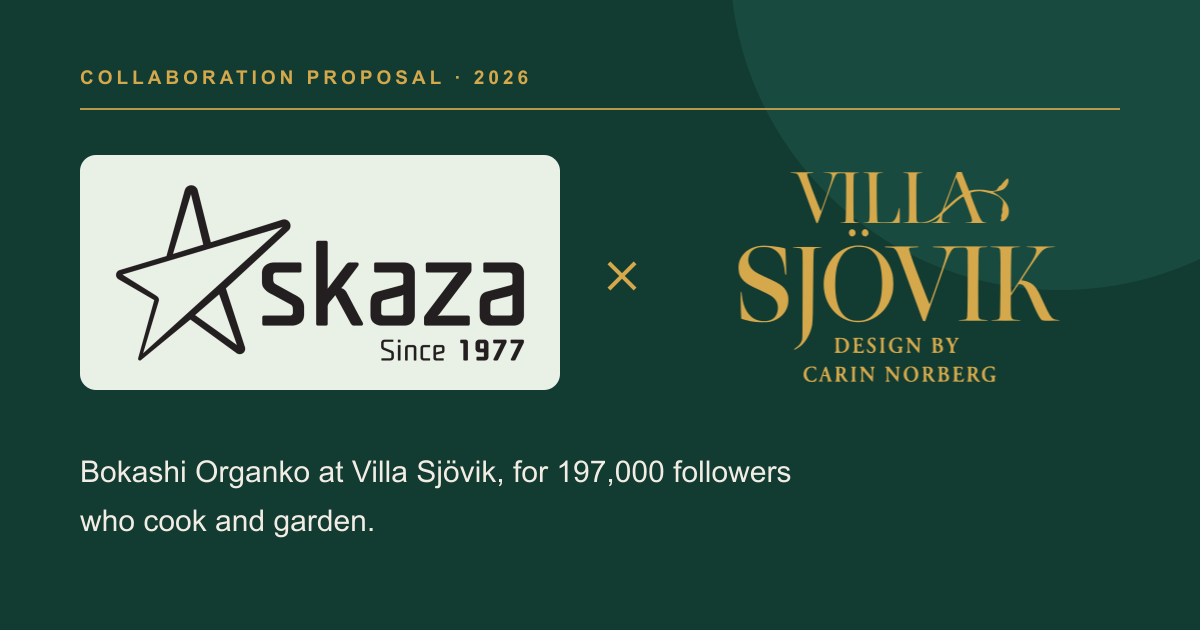
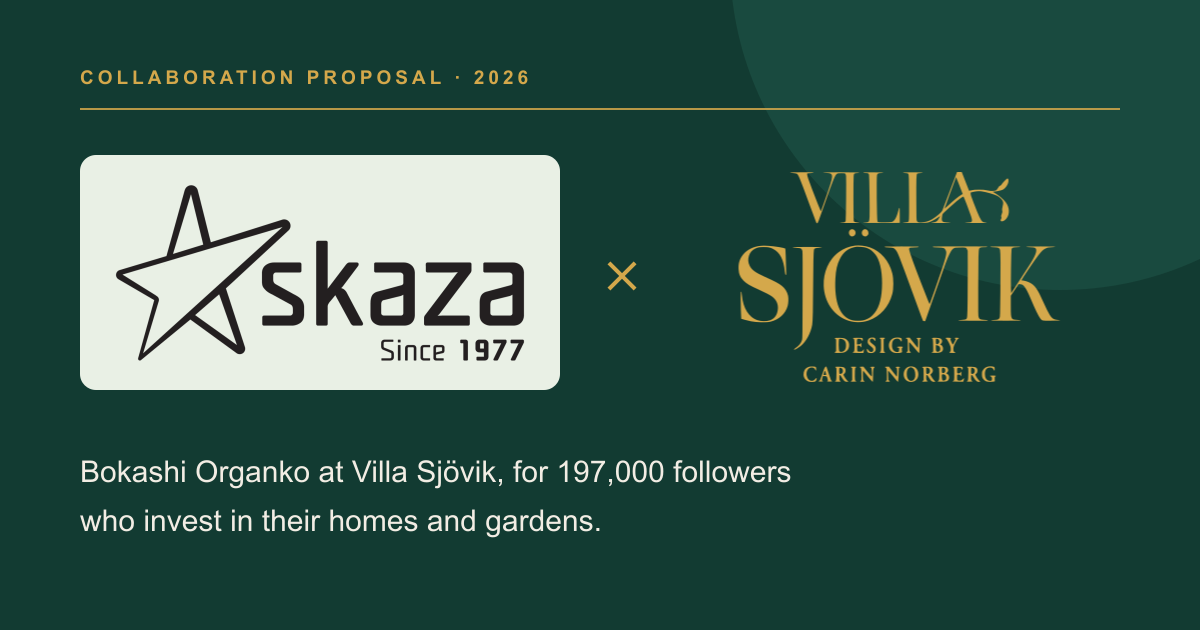
Rättning efter Lucas granskning 2026-10-05: hjälterad, logga utan platta

Changed region(s): [[0.1233, 0.8143, 0.4933, 0.8444]]

diff --git a/index.html b/index.html
@@ -6,7 +6,7 @@
 <title>Skaza × Villa Sjövik</title>
 <link rel="icon" type="image/png" href="./skaza-favicon.png"/>
 <meta property="og:title" content="Skaza × Villa Sjövik — Collaboration proposal 2026"/>
-<meta property="og:description" content="Bokashi Organko at Villa Sjövik, for 197,000 followers who cook and garden."/>
+<meta property="og:description" content="Bokashi Organko at Villa Sjövik, for 197,000 followers who invest in their homes and gardens."/>
 <meta property="og:image" content="https://villasjovik.github.io/skaza/og-image.png"/>
 <meta property="og:image:width" content="1200"/>
 <meta property="og:image:height" content="630"/>
@@ -15,7 +15,7 @@
 <meta property="og:type" content="website"/>
 <meta name="twitter:card" content="summary_large_image"/>
 <meta name="twitter:title" content="Skaza × Villa Sjövik — Collaboration proposal 2026"/>
-<meta name="twitter:description" content="Bokashi Organko at Villa Sjövik, for 197,000 followers who cook and garden."/>
+<meta name="twitter:description" content="Bokashi Organko at Villa Sjövik, for 197,000 followers who invest in their homes and gardens."/>
 <meta name="twitter:image" content="https://villasjovik.github.io/skaza/og-image.png"/>
 <link rel="preconnect" href="https://fonts.googleapis.com"/>
 <link rel="preconnect" href="https://fonts.gstatic.com" crossorigin/>
@@ -1247,7 +1247,6 @@ position:relative;overflow:hidden;transition:color .35s}
   .h-content{width:100%;padding-left:0;padding-right:0}
   .h-lockup{flex-direction:row;flex-wrap:nowrap;gap:0;margin-bottom:36px}
   .h-side,.h-side-l,.h-side-r{flex:1;min-width:0;justify-content:center!important;padding:0!important}
-  .h-lockup::after{display:none}
   .h-side-l,.h-side-r{transform:none!important;transition:opacity .8s ease!important;opacity:0}
   body.slide-in .h-side-l,body.slide-in .h-side-r{opacity:1}
   .h-lockup{transform:scale(1)!important}
@@ -1315,8 +1314,8 @@ position:relative;overflow:hidden;transition:color .35s}
              data-svg="./skaza.svg"
              data-fallback="./skaza.svg"
              data-use-svg-color="true"
-             data-layer-gap="4"
-             data-tone="neutral" data-exposure="1.0"
+             data-tone="neutral" data-exposure="2.0"
+             data-key-light="8" data-fill-light="3" data-rim-light="3"
              data-material="metal" data-color="#231F20" data-motion="float-spin"
              data-rotate-speed="0.3"
              data-bevel-depth="14"
@@ -1346,7 +1345,7 @@ position:relative;overflow:hidden;transition:color .35s}
       </div>
     </div>
     <div class="h-tag-p" data-par="5,4">
-    <h1 class="h-tagline">Bokashi Organko at Villa Sjövik, for <em>197,000 followers</em> who cook and garden.</h1>
+    <h1 class="h-tagline">Bokashi Organko at Villa Sjövik, for <em>197,000 followers</em> who invest in their homes and gardens.</h1>
     </div>
     <div class="h-scroll" aria-hidden="true">
       <span>Explore</span>

diff --git a/logo3d.js b/logo3d.js
@@ -112,9 +112,10 @@ function initLogo3D(container) {
 
   scene.environment = new THREE.PMREMGenerator(renderer).fromScene(new RoomEnvironment(), 0.04).texture;
 
+  // Per-logo light strengths keep the unplated dark Skaza mark readable; defaults preserve other logos.
   // Lights — strong key from upper right corner
   scene.add(new THREE.AmbientLight(0xfff8f0, 0.7));
-  const keyLight = new THREE.DirectionalLight(0xfff2e0, 6.0);
+  const keyLight = new THREE.DirectionalLight(0xfff2e0, parseFloat(container.dataset.keyLight || '6.0'));
   keyLight.position.set(900, 800, 500); // strong upper-right-front
   keyLight.castShadow = hasShadow;
   if (hasShadow) {
@@ -131,11 +132,11 @@ function initLogo3D(container) {
   }
   scene.add(keyLight);
   // Soft fill from lower left — gives shape without flattening shadows
-  const fillLight = new THREE.DirectionalLight(0xffeedd, 1.2);
+  const fillLight = new THREE.DirectionalLight(0xffeedd, parseFloat(container.dataset.fillLight || '1.2'));
   fillLight.position.set(-500, -200, 400);
   scene.add(fillLight);
   // Rim from upper-left-back for edge definition
-  const rimLight = new THREE.DirectionalLight(0xffffff, 1.8);
+  const rimLight = new THREE.DirectionalLight(0xffffff, parseFloat(container.dataset.rimLight || '1.8'));
   rimLight.position.set(-400, 400, -600);
   scene.add(rimLight);
 
